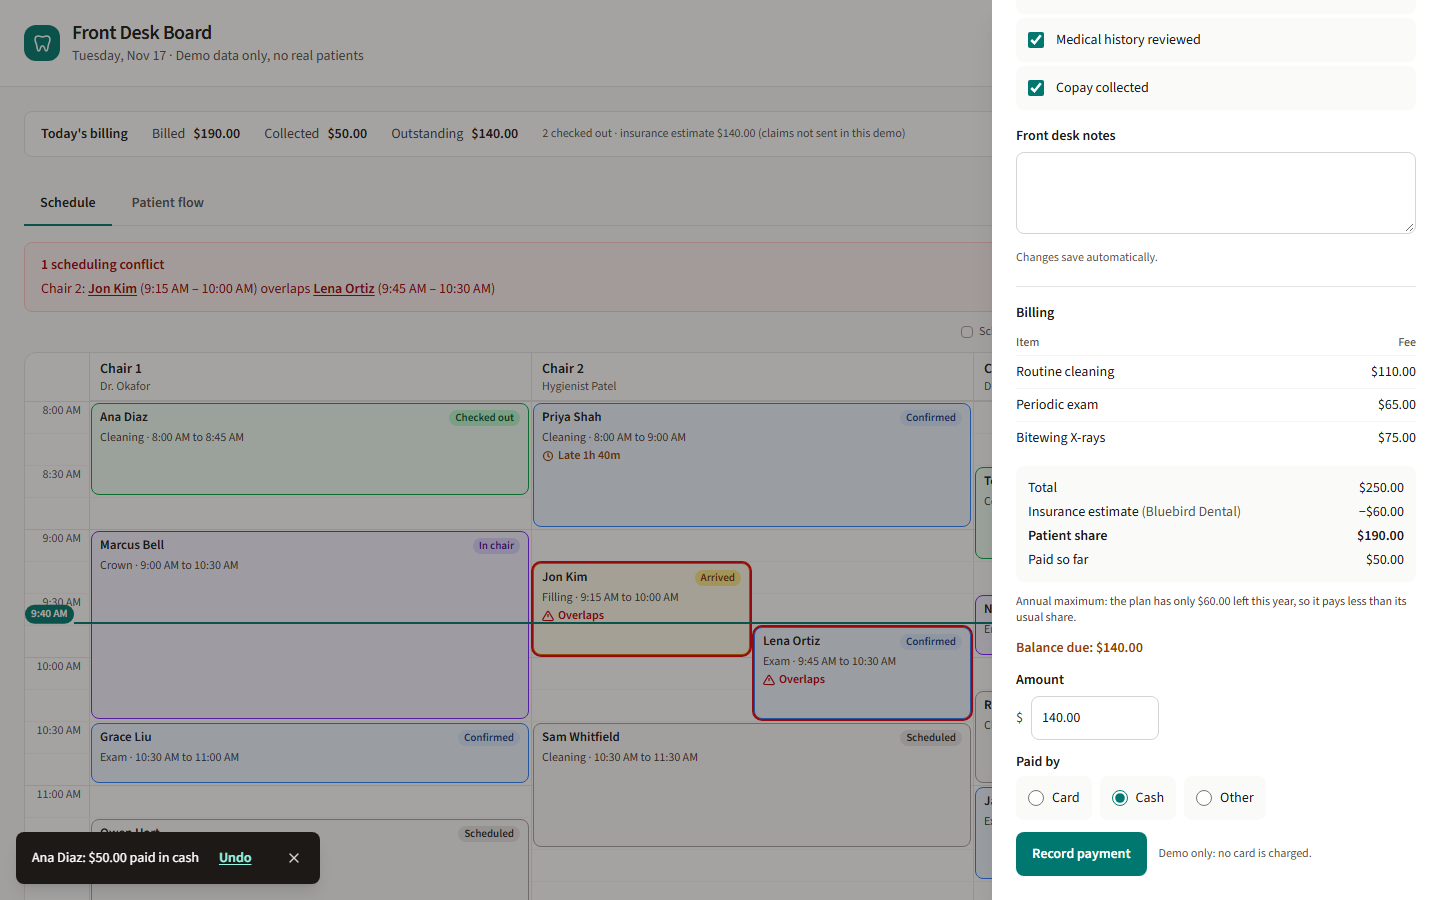
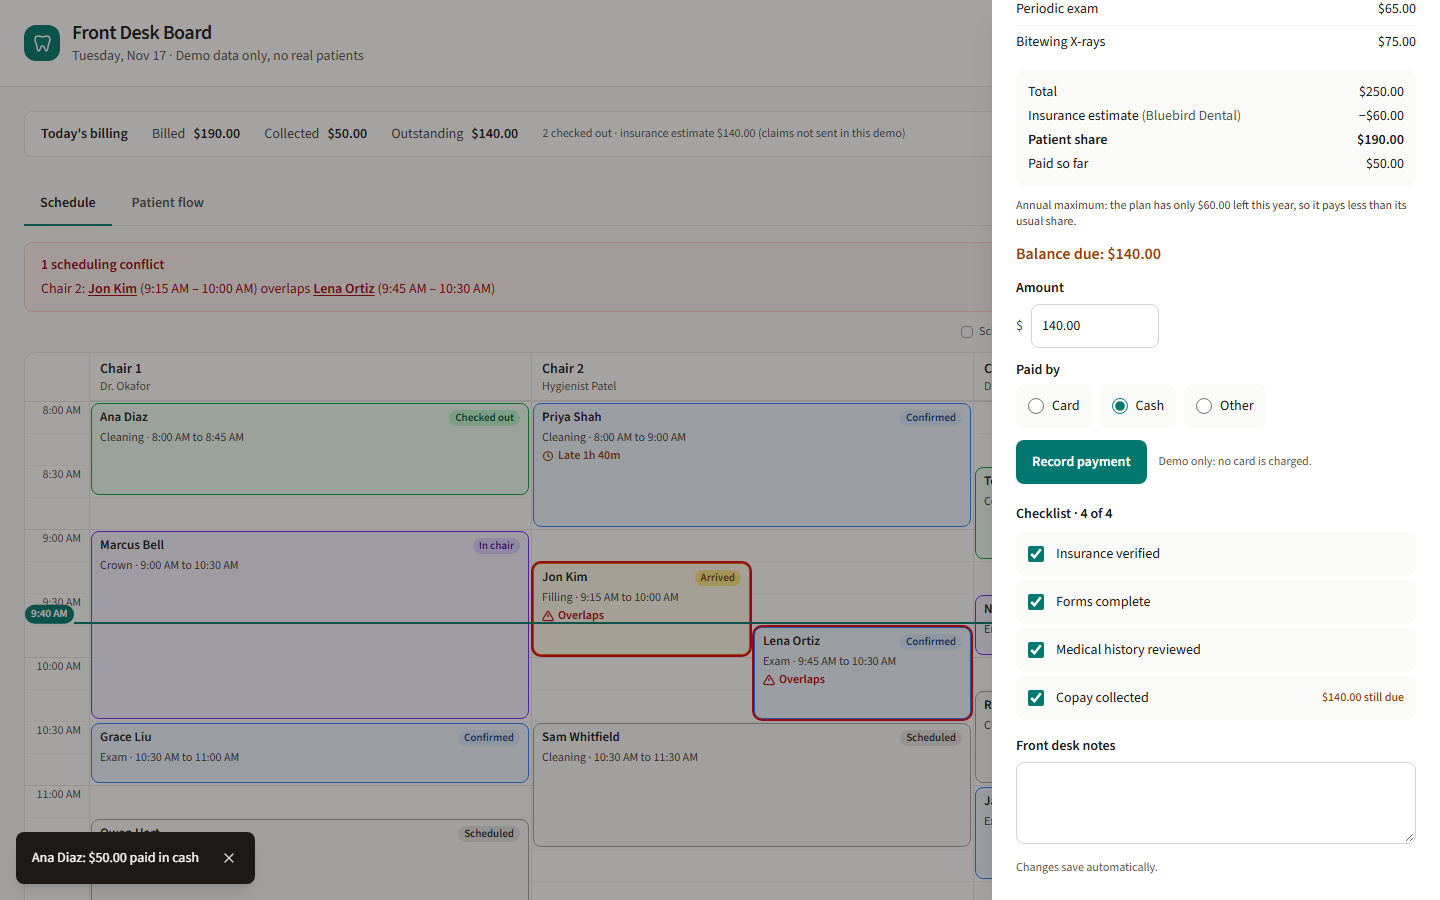
README and tour: retake billing and Move to… screenshots
The billing shot shows the reordered drawer with '$140.00 still due'
beside Copay collected; the Move to… shot shows it under the overlap
alert, own provider first, others named. Alt text, captions and tour
wording updated to match.

diff --git a/docs/TOUR.md b/docs/TOUR.md
@@ -7,11 +7,11 @@ Everything here is fake data. Live demo: https://front-desk-board.vercel.app/ ([
    open the check-in drawer, then **Check in**. Undo is in the toast. **Priya Shah**
    (8:00) never arrived: open her and **Mark no-show**. Or fix the double-booking
    instead: open Lena, press **Move to…**, pick **11:30 AM, Chair 2**, and **Move
-   visit**. The banner clears, and Undo in the toast puts her back. Signed in as Lena
+   visit**. The banner clears, and Undo (in the drawer while it's open, then in the toast) puts her back. Signed in as Lena
    (`lena.ortiz@example.com`, `demo1234`) in a second tab, her visit shows the new time.
 
    <p>
-     <img src="images/move-drawer.png" width="76%" alt="Lena Ortiz's check-in drawer with Move to… open: she overlaps Jon Kim in Chair 2, and five open times later today are offered, with 11:30 AM to 12:15 PM in Chair 2 picked, and Move visit and Keep time buttons. Behind it, the schedule's red double-booking banner">
+     <img src="images/move-drawer.png" width="76%" alt="Lena Ortiz's check-in drawer with Move to… open right under the alert that she overlaps Jon Kim in Chair 2: three times with her own provider in Chair 2 come first, with 11:30 AM to 12:15 PM picked, then 11:45 AM in Chair 3 with Dr. Lindqvist and 12:00 PM in Chair 1 with Dr. Okafor, and Move visit and Keep time buttons. Behind it, the schedule's red double-booking banner">
      <img src="images/patient-moved-phone.png" width="21%" alt="Lena's Your visits page on a phone after the move: her checkup is now 11:30 AM to 12:15 PM, still confirmed, with a Check in button">
    </p>
 
@@ -22,14 +22,15 @@ Everything here is fake data. Live demo: https://front-desk-board.vercel.app/ ([
    **Billing** section lists her cleaning's line items, the insurance estimate (her
    plan has only $60.00 left this year) and her $190.00 share. Enter 50, choose
    **Cash**, and **Record payment**: the balance drops to $140.00, Copay collected
-   ticks itself, and the toast offers Undo. It's pretend: nothing is charged.
+   ticks itself and says "$140.00 still due", and the drawer offers Undo. It's
+   pretend: nothing is charged.
    **Tomás Reyes** (checked out) owes nothing; his plan pays the consult in full.
    In a second tab, sign in at [/patient](https://front-desk-board.vercel.app/patient)
    as `ana.diaz@example.com` (`demo1234`): her visit shows **Your bill**, read only,
    and the balance updates when the desk records a payment.
 
    <p>
-     <img src="images/billing-drawer.png" width="76%" alt="The check-in drawer's Billing section for Ana Diaz: three line items, a $250.00 total, a $60.00 insurance estimate capped by her plan's annual maximum, a $190.00 patient share, $50.00 paid and $140.00 due, with a Record payment form. Behind it, the office manager's Today's billing totals, and a toast with Undo">
+     <img src="images/billing-drawer.png" width="76%" alt="The check-in drawer for Ana Diaz after a $50.00 cash payment: a $250.00 total, a $60.00 insurance estimate capped by her plan's annual maximum, a $190.00 patient share, $50.00 paid, Balance due $140.00, the Record payment form, and in the checklist below, Copay collected ticked with $140.00 still due beside it. Behind it, the office manager's Today's billing totals and the payment toast">
      <img src="images/patient-bill-phone.png" width="21%" alt="The patient's Your visits page on a phone: Ana's cleaning with her bill, $190.00 share, $50.00 paid, balance due $140.00, pay at the front desk">
    </p>
 

diff --git a/README.md b/README.md
@@ -72,18 +72,18 @@ from a phone, and the error states, and lists every [demo patient login](docs/TO
 _Left: the AI assist fills in the form, and the slot finder offers times. Right: a patient checks in from their phone._
 
 <p>
-  <img src="docs/images/billing-drawer.png" width="76%" alt="The check-in drawer's Billing section for Ana Diaz: three line items, a $250.00 total, a $60.00 insurance estimate capped by her plan's annual maximum, a $190.00 patient share, $50.00 paid and $140.00 due, with a Record payment form. Behind it, the office manager's Today's billing totals, and a toast with Undo">
+  <img src="docs/images/billing-drawer.png" width="76%" alt="The check-in drawer for Ana Diaz after a $50.00 cash payment: a $250.00 total, a $60.00 insurance estimate capped by her plan's annual maximum, a $190.00 patient share, $50.00 paid, Balance due $140.00, the Record payment form, and in the checklist below, Copay collected ticked with $140.00 still due beside it. Behind it, the office manager's Today's billing totals and the payment toast">
   <img src="docs/images/patient-bill-phone.png" width="21%" alt="The patient's Your visits page on a phone: Ana's cleaning with her bill, $190.00 share, $50.00 paid, balance due $140.00, pay at the front desk">
 </p>
 
-_Left: checkout billing in the drawer, with the office manager's day totals behind it. Right: the patient sees the same bill, read only. Fees, plans and payments are made up._
+_Left: checkout billing in the drawer, with what's still due beside Copay collected and the office manager's day totals behind it. Right: the patient sees the same bill, read only. Fees, plans and payments are made up._
 
 <p>
-  <img src="docs/images/move-drawer.png" width="76%" alt="Lena Ortiz's check-in drawer with Move to… open: she overlaps Jon Kim in Chair 2, and five open times later today are offered, with 11:30 AM to 12:15 PM in Chair 2 picked, and Move visit and Keep time buttons. Behind it, the schedule's red double-booking banner">
+  <img src="docs/images/move-drawer.png" width="76%" alt="Lena Ortiz's check-in drawer with Move to… open right under the alert that she overlaps Jon Kim in Chair 2: three times with her own provider in Chair 2 come first, with 11:30 AM to 12:15 PM picked, then 11:45 AM in Chair 3 with Dr. Lindqvist and 12:00 PM in Chair 1 with Dr. Okafor, and Move visit and Keep time buttons. Behind it, the schedule's red double-booking banner">
   <img src="docs/images/patient-moved-phone.png" width="21%" alt="Lena's Your visits page on a phone after the move: her checkup is now 11:30 AM to 12:15 PM, still confirmed, with a Check in button">
 </p>
 
-_Left: Move to… offers the next open times for a visit that hasn't checked in, here to clear the double-booking. Right: the patient's page shows the new time without a reload._
+_Left: Move to… sits under the double-booking it fixes and offers the patient's own provider first, naming any other. Right: the patient's page shows the new time without a reload._
 
 | Patient flow                                                                                                 | Dark mode                                                |
 | ------------------------------------------------------------------------------------------------------------ | -------------------------------------------------------- |
